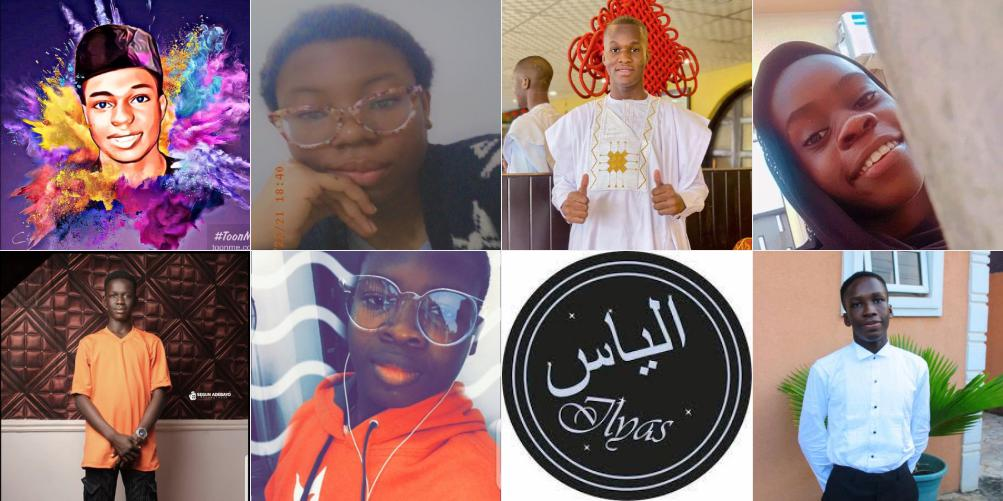
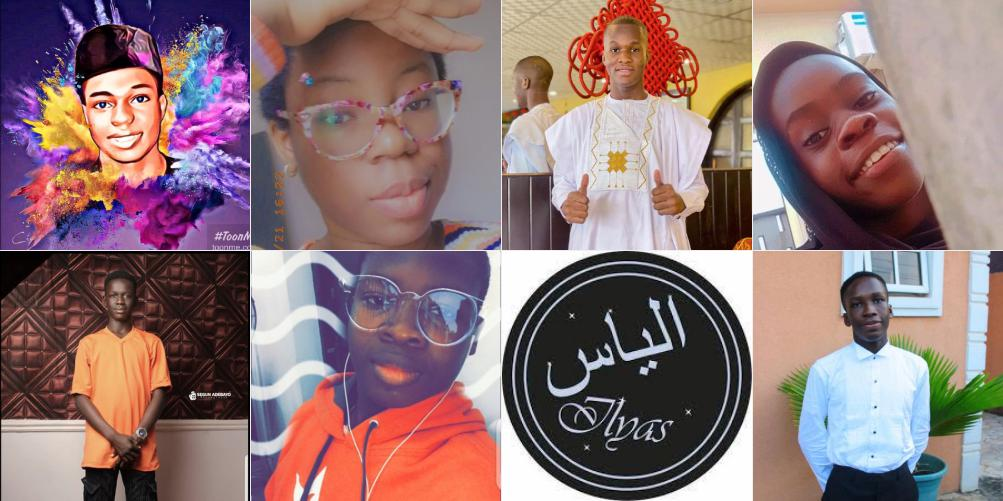
Abibola Fix

Changed region(s): [[0.2473, 0.0, 0.5254, 0.509]]

diff --git a/members/index.js b/members/index.js
@@ -18,11 +18,11 @@ module.exports = [
     "isActive": true
   },
   {
-    "full_name": "Ifunanyachi Abibola Oworu-Chima",
+    "full_name": "Abibola Oworu-Chima",
     "username": "Abibola",
-    "image_url": "https://i.ibb.co/mcRfkvk/abibola.jpg",
+    "image_url": "https://i.ibb.co/K7gmBQF/abibola.jpg",
     "short_description": "I started my coding journey in 2020. I love music and books.",
-    "role": "Front-end Developer, UI/UX Designer",
+    "role": "F.E Developer & Designer",
     "links": {
       "website_or_extra": "",
       "github": "https://github.com/PhoenixAqua",
